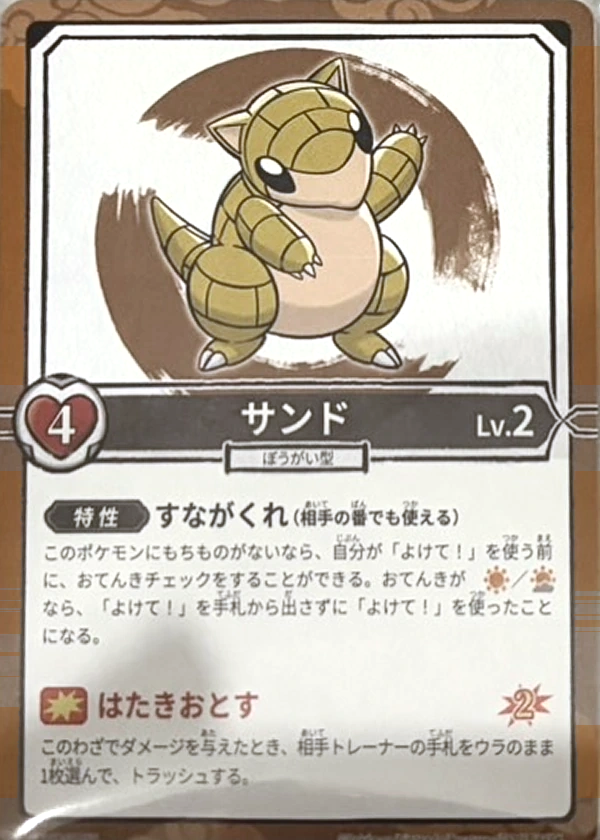
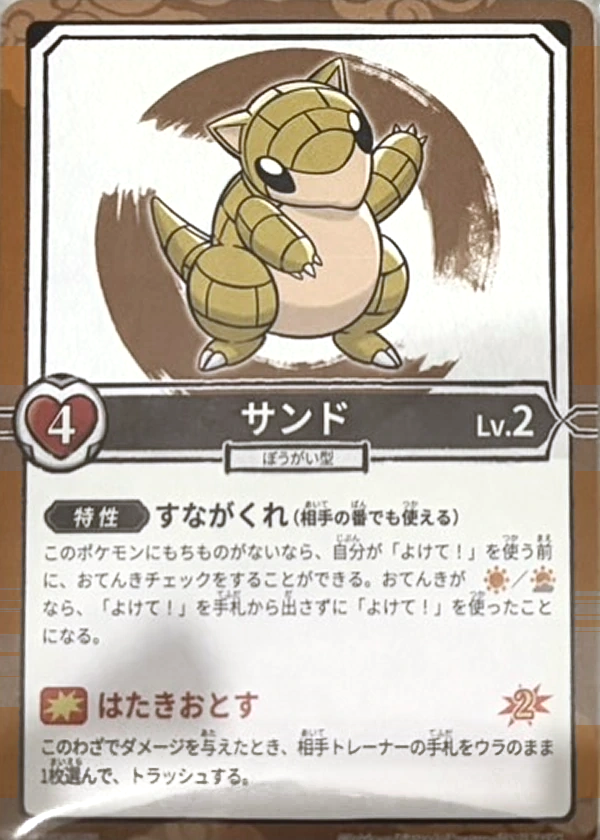
Reduce strong paper shadows on four Rocket evolution cards

Changed region(s): [[0.09, 0.8667, 0.93, 0.9595]]

diff --git a/docs/rocket-evolution-quality-review.md b/docs/rocket-evolution-quality-review.md
@@ -1,0 +1,22 @@
+# ロケット団 進化カード画像監査
+
+対象は main の d9521eb06980e8d4cc993c91cea513e2410e6d60 にある WebP 74枚。ローカルと GitHub Actions の JSON はバイト単位で一致した。74枚すべてデコード成功。寸法は 600×840 が30枚、630×880 が7枚、745×1040 が37枚。再補正後も同じ枚数と寸法。
+
+## 測定方法
+
+Lv.3 の card_001〜card_030 を進化系統ごとに参照し、ミニリュウ系統にはカイリューを使用。測定時は300×420へ統一。白地は下部の6行帯から低彩度・高輝度の画素を抽出。名前帯は位置を探索し、暗色画素の中央値を測定。左右の外枠は下半分で黒線の内側へ明度が立ち上がる位置を追跡し、外側の色と境界の明度を比較した。
+
+黒線を追跡できたのは左67枚、右55枚。傾きと直線からの残差は部分測定値。四辺・角を含む歪みの合否や境界影の全数判定は保留した。黒線のすぐ外側の中央値には、Lv.3より大きい明度低下が見られた。黒線のアンチエイリアスや印刷の濃淡も含むため、この値だけで影とは判定していない。フシギソウとフシギバナの名前帯はそれぞれ (84,78,72) と (93,83,77)、左外枠は (89,144,66) と (87,156,61)。この補正では名前帯と外枠の色を変更していない。
+
+## 再補正
+
+撮影影の強い白地を部分的に調整。候補13枚のうち、下表の4枚を採用。RGB差は6帯の各中央値について計算した3チャンネル平均絶対誤差の最大値。カード上部60%と左右の緩衝領域はデコード後の画素まで一致。WebPは可逆圧縮。候補に残った影や帯状の変化が見える画像は保留。
+
+| ファイル | 下部の白地 RGB 前 → 後 | Lv.3 との差 前 → 後 |
+| --- | --- | ---: |
+| aerodactyl-lv2.webp | (194,189,170) → (245,241,222) | 69.0 → 17.3 |
+| cubone-lv2.webp | (195,190,174) → (248,244,229) | 67.0 → 13.0 |
+| sandshrew-lv2.webp | (199,197,190) → (247,246,244) | 58.0 → 9.0 |
+| staryu-lv1.webp | (191,188,184) → (246,242,238) | 65.7 → 11.3 |
+
+既存のゲーム実装は変更なし。テストの VM 互換補助をローカルで適用して独立実行し、既存の失敗と今回の差分を照合した。チャオチャオは部屋作成・参加から勝利まで、ロケット団は4人で部屋作成・参加・開始および進化カードの登録、効果テスト25件とUIテストを確認した。
